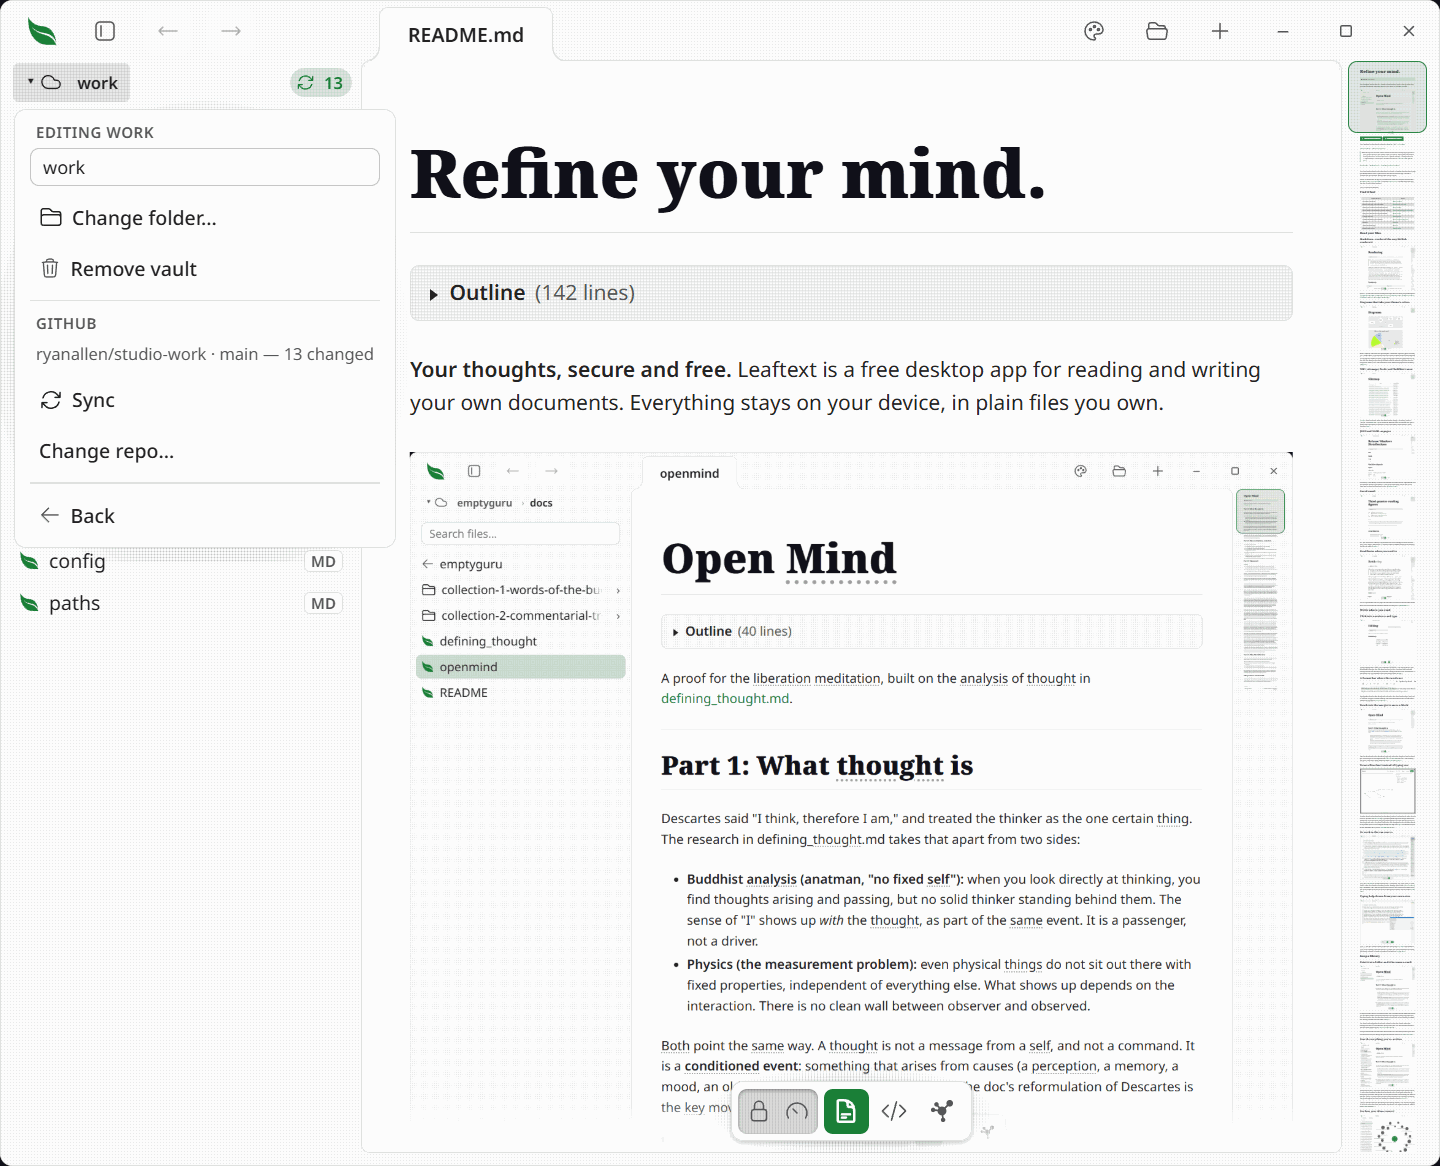
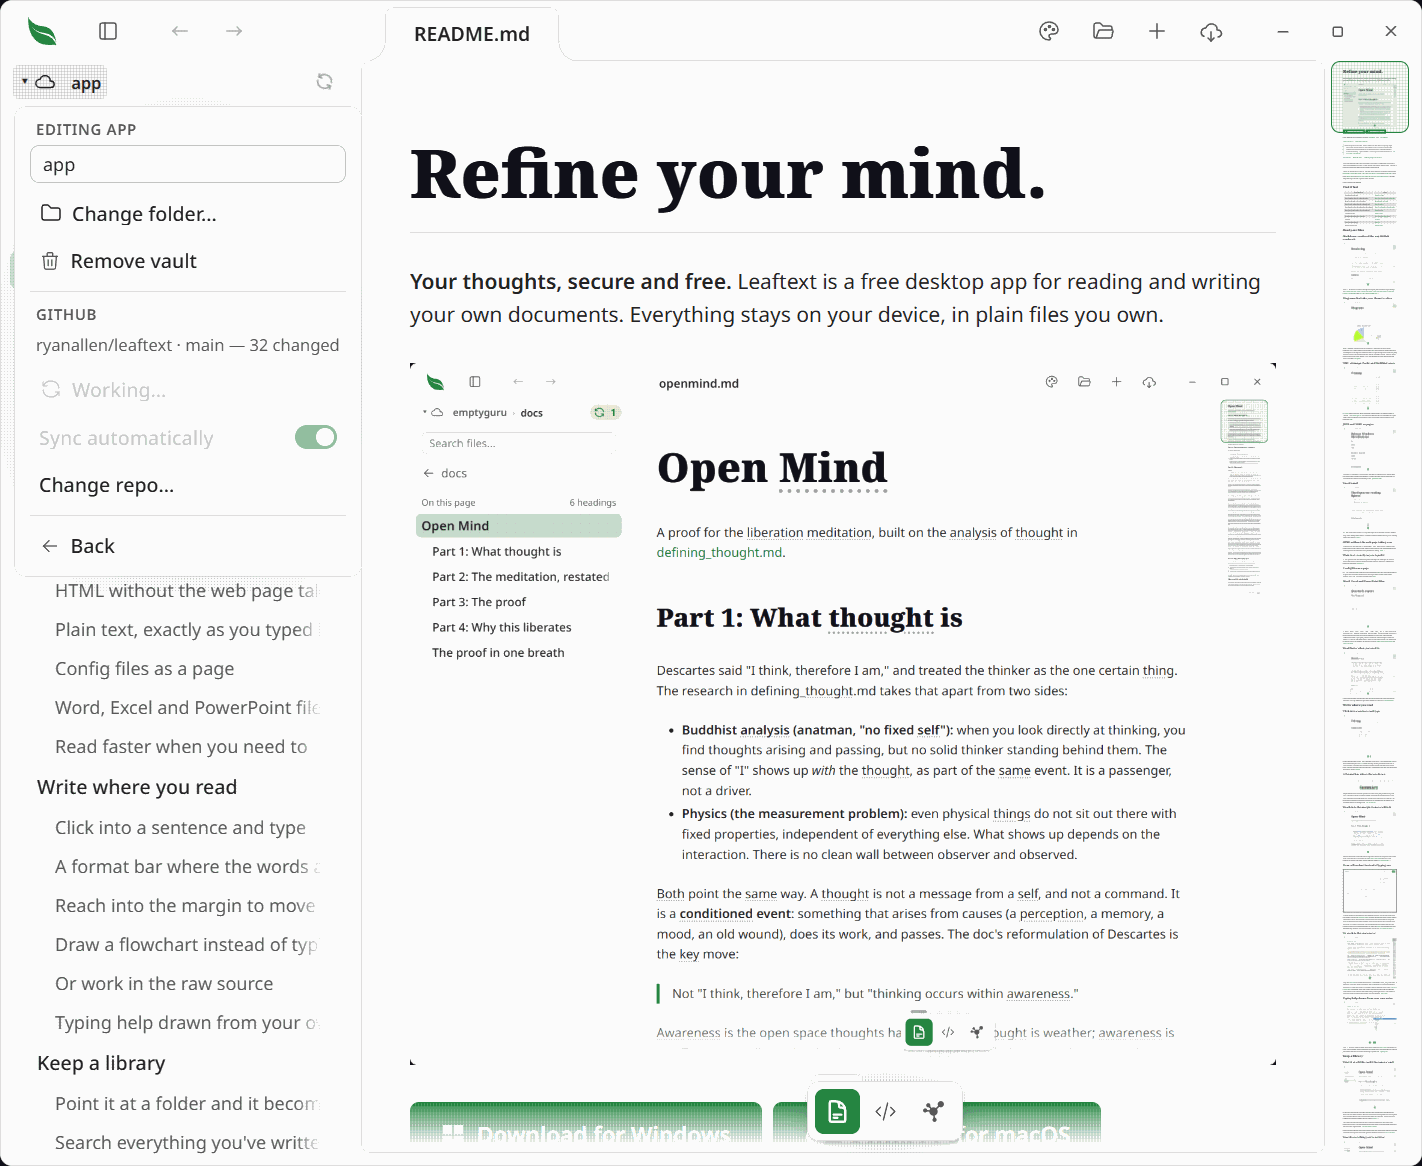
Automatic GitHub sync for one vault, flowchart shape pictures that stop making every redraw dearer, and a build that ticks its boxes without opening the owners pages

diff --git a/src/store/tests.rs b/src/store/tests.rs
@@ -155,7 +155,11 @@ fn a_vault_registered_before_the_kind_column_reads_as_a_folder() {
             "{} is not a folder",
             vault.name
         );
-        assert!(!vault.git_auto_sync, "{} starts automatic sync on", vault.name);
+        assert!(
+            !vault.git_auto_sync,
+            "{} starts automatic sync on",
+            vault.name
+        );
     }
     // And the order they were added in survives the migration, since that is what the switcher lists them in.
     assert_eq!(vaults[0].name, "Dharma");
@@ -226,7 +230,13 @@ fn changing_one_vaults_automatic_sync_leaves_the_other_off_and_names_the_page_fi
     let second = add_vault(&conn, &second_root, "Second", VaultKind::Git).expect("second added");
 
     set_vault_git_auto_sync(&conn, first.id, true).expect("choice changed");
-    assert_eq!(find_vault(&conn, first.id).expect("found"), Some(Vault { git_auto_sync: true, ..first }));
+    assert_eq!(
+        find_vault(&conn, first.id).expect("found"),
+        Some(Vault {
+            git_auto_sync: true,
+            ..first
+        })
+    );
     assert_eq!(find_vault(&conn, second.id).expect("found"), Some(second));
 
     let vaults = list_vaults(&conn).expect("listed");

diff --git a/src/app/event_loop.rs b/src/app/event_loop.rs
@@ -1174,7 +1174,8 @@ pub(crate) fn run_event_loop(event_loop: EventLoop<UserEvent>, ctx: AppCtx) -> !
                 }
                 IpcCommand::SetVaultGitAutoSync { id, enabled } => {
                     if let Some(conn) = vault_state.conn.as_ref() {
-                        if let Err(error) = leaftext::store::set_vault_git_auto_sync(conn, id, enabled)
+                        if let Err(error) =
+                            leaftext::store::set_vault_git_auto_sync(conn, id, enabled)
                         {
                             eprintln!("Could not change automatic sync for that vault: {error}");
                         } else {

diff --git a/src/app/tests/vaults.rs b/src/app/tests/vaults.rs
@@ -359,11 +359,7 @@ fn a_watcher_batch_without_pane_or_image_changes_does_not_raise_them() {
     let state = VaultState::load(None);
 
     assert_eq!(
-        watched_batch_steps(
-            &state,
-            [(PathBuf::from("/elsewhere/notes.md"), false)],
-            0,
-        ),
+        watched_batch_steps(&state, [(PathBuf::from("/elsewhere/notes.md"), false)], 0,),
         vec![
             WatchedChangeStep::AgeLinkPreviews,
             WatchedChangeStep::PatchCorpus {

diff --git a/src/app/vault_git.rs b/src/app/vault_git.rs
@@ -138,7 +138,9 @@ pub(crate) fn status_read_to_start(
     generation: u64,
 ) -> Option<(PathBuf, u64)> {
     let (_name, root) = vault_root(state, id)?;
-    state.may_read_status(id, generation).then_some((root, generation))
+    state
+        .may_read_status(id, generation)
+        .then_some((root, generation))
 }
 
 /// The folder the one repeat is owed against, once a status answer has reached the page — or nothing where nobody asked while the read was running.
